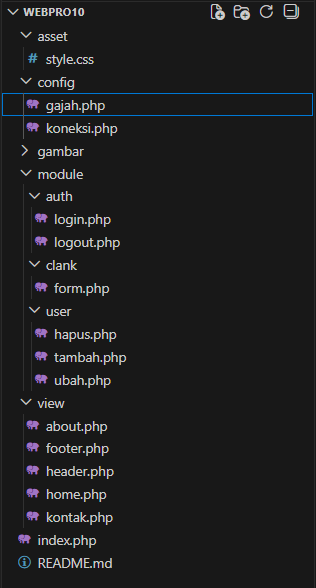
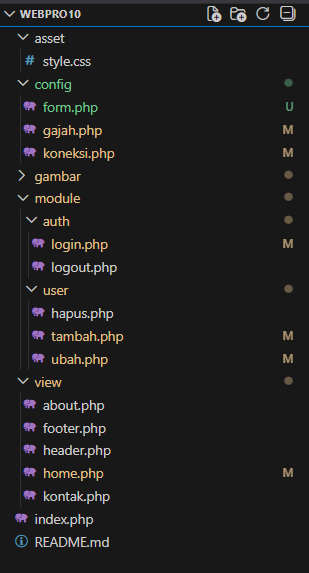
renamed:    module/clank/form.php -> config/form.php 	modified:   config/gajah.php 	modified:   config/koneksi.php 	modified:   gambar/file.png 	modified:   module/auth/login.php 	modified:   module/user/tambah.php 	modified:   module/user/ubah.php 	modified:   view/home.php

diff --git a/module/auth/login.php b/module/auth/login.php
@@ -1,7 +1,7 @@
 <?php
 session_start();
 require_once __DIR__ . '/../../config/gajah.php';
-require_once ROOT . 'module/clank/form.php';
+require_once ROOT . 'config/form.php';
 
 $peng = [
     "rina@gmail.com" => ["nama" => "Rina Wulandari", "password" => "rina567", "role" => "User"],

diff --git a/module/user/ubah.php b/module/user/ubah.php
@@ -2,7 +2,7 @@
 error_reporting(E_ALL);
 require_once __DIR__ . '/../../config/gajah.php';
 require ROOT . 'view/header.php';
-require_once ROOT . 'module/clank/form.php';
+require_once ROOT . 'config/form.php';
 
 if ($_POST) {
     $id = $_POST['id'];

diff --git a/module/user/tambah.php b/module/user/tambah.php
@@ -2,7 +2,7 @@
 error_reporting(E_ALL);
 require_once __DIR__ . '/../../config/gajah.php';
 require ROOT . 'view/header.php';
-require_once ROOT . 'module/clank/form.php';
+require_once ROOT . 'config/form.php';
 ?>
 
 <div class="container">

diff --git a/config/koneksi.php b/config/koneksi.php
@@ -5,4 +5,5 @@ $config = [
     'password'  => '',
     'db_name'   => 'latihan1',
 ];
+
 ?>
